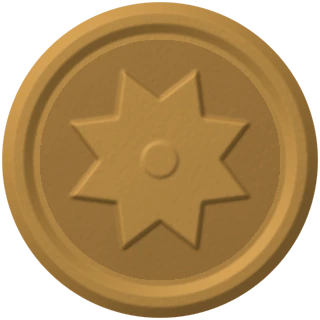
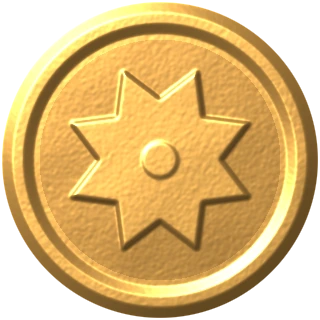
戦績: ルール選択を独自UIのドロップダウンに / アルケルケ: 金駒の明るさを中間に
Claude-Session: https://claude.ai/code/session_01EiWRAYzNyyFMGgYmiTnvUY

diff --git a/shared/record.js b/shared/record.js
@@ -28,7 +28,7 @@ const TX = {
 };
 const ICON = '<svg viewBox="0 0 24 24"><path d="M8 21h8M12 17v4"/><path d="M7 4h10v5a5 5 0 0 1-10 0z"/><path d="M7 6H4a3 3 0 0 0 3 4M17 6h3a3 3 0 0 1-3 4"/></svg>';
 const esc = s => String(s == null ? '' : s).replace(/[&<>"]/g, c => ({ '&': '&amp;', '<': '&lt;', '>': '&gt;', '"': '&quot;' }[c]));
-let O = null, vtab = 'all', tab = 'all', ov = null, confirmOn = false;
+let O = null, vpOpen = false, vtab = 'all', tab = 'all', ov = null, confirmOn = false;
 const L = () => { const l = (O && O.lang && O.lang()) || 'ja'; return TX[l] ? l : 'en'; };
 const tx = (k, v) => { let x = TX[L()][k]; if (x === undefined) x = TX.en[k]; if (v) x = x.replace(/\{(\w+)\}/g, (_, y) => v[y] != null ? v[y] : ''); return x; };
 const KEY = () => 'atlas-rec-' + O.game;
@@ -58,10 +58,19 @@ const CSS = `
 .grc-tabs{display:flex;flex:none;gap:2px;margin:0 22px 4px;padding:3px;border-radius:12px;background:rgba(0,0,0,.25);border:1px solid var(--gb);width:max-content;max-width:calc(100% - 44px);overflow-x:auto;scrollbar-width:none}
 .grc-tabs button{font:inherit;font-size:13.5px;font-weight:600;padding:7px 16px;border-radius:9px;border:0;background:transparent;color:var(--gm);cursor:pointer;white-space:nowrap}
 .grc-tabs button.sel{background:var(--gc);color:var(--gx);box-shadow:inset 0 0 0 1px var(--gb),0 1px 3px rgba(0,0,0,.3)}
-.grc-vs{position:relative;flex:none;min-width:0;max-width:52%}
-.grc-vs select{appearance:none;-webkit-appearance:none;font:inherit;font-size:13.5px;font-weight:600;color:var(--gx);background:var(--gc);border:1px solid var(--gb);border-radius:10px;padding:8px 32px 8px 12px;max-width:100%;cursor:pointer;text-overflow:ellipsis}
-.grc-vs::after{content:"";position:absolute;right:12px;top:50%;width:7px;height:7px;border-right:2px solid var(--gm);border-bottom:2px solid var(--gm);transform:translateY(-70%) rotate(45deg);pointer-events:none}
-.grc-vs select option{background:var(--panel,#1d1712);color:var(--gx)}
+.grc-vs{position:relative;flex:none;min-width:0;max-width:56%}
+.grc-vb{display:flex;align-items:center;gap:10px;max-width:100%;font:inherit;font-size:13.5px;font-weight:600;color:var(--gx);background:var(--gc);border:1px solid var(--gb);border-radius:10px;padding:8px 12px;cursor:pointer}
+.grc-vb span{min-width:0;overflow:hidden;text-overflow:ellipsis;white-space:nowrap}
+.grc-vb i{flex:none;width:7px;height:7px;border-right:2px solid var(--gm);border-bottom:2px solid var(--gm);transform:translateY(-2px) rotate(45deg);transition:transform .15s}
+.grc-vs.open .grc-vb{border-color:color-mix(in srgb,var(--ga) 50%,transparent)}.grc-vs.open .grc-vb i{transform:translateY(2px) rotate(-135deg)}
+.grc-vp{position:absolute;right:0;top:calc(100% + 6px);z-index:5;min-width:220px;max-width:min(320px,80vw);max-height:min(360px,60vh);overflow-y:auto;padding:6px;border-radius:14px;
+  background:color-mix(in srgb,var(--panel,#1d1712) 94%,#fff 6%);border:1px solid var(--gb);box-shadow:0 18px 40px rgba(0,0,0,.5);display:flex;flex-direction:column;gap:2px;animation:grcVp .14s ease-out}
+@keyframes grcVp{from{opacity:0;transform:translateY(-4px)}to{opacity:1;transform:none}}
+.grc-vp button{display:flex;align-items:center;justify-content:space-between;gap:14px;font:inherit;font-size:14px;font-weight:600;color:var(--gx);background:transparent;border:0;border-radius:9px;padding:9px 12px;cursor:pointer;text-align:start}
+.grc-vp button:hover{background:var(--gc)}
+.grc-vp button small{color:var(--gm);font-size:12px;font-weight:500;white-space:nowrap}
+.grc-vp button.sel{background:color-mix(in srgb,var(--ga) 12%,transparent);color:var(--ga)}
+html[dir=rtl] .grc-vp,html[lang=ar] .grc-vp{right:auto;left:0}
 .grc-vt{display:flex;flex:none;gap:6px;margin:0 22px 10px;overflow-x:auto;scrollbar-width:none}
 .grc-vt button{font:inherit;font-size:13px;font-weight:600;padding:6px 13px;border-radius:999px;border:1px solid var(--gb);background:transparent;color:var(--gm);cursor:pointer;white-space:nowrap;flex:none}
 .grc-vt button.sel{color:var(--ga);border-color:color-mix(in srgb,var(--ga) 50%,transparent);background:color-mix(in srgb,var(--ga) 10%,transparent)}
@@ -170,7 +179,7 @@ function render() {
   if (tab !== 'all' && !modes.includes(tab)) tab = 'all';
   const list = tab === 'all' ? all : all.filter(g => g.mode === tab);
   const st = stats(list), sides = O.sides ? O.sides(L()) : null;
-  let h = `<div class="grc-hd"><span class="grc-ic">${ICON}</span><h2>${esc(tx('title'))}</h2>${vs.length > 1 ? `<label class="grc-vs"><select aria-label="${esc(tx('allV'))}">${['all'].concat(vs).map(k => `<option value="${esc(k)}"${k === vtab ? ' selected' : ''}>${esc(k === 'all' ? tx('allV') : vName(k, every))}　${k === 'all' ? every.length : every.filter(g => vOf(g) === k).length}</option>`).join('')}</select></label>` : ''}<button type="button" class="grc-x" data-act="close" aria-label="${esc(tx('close'))}">×</button></div>`;
+  let h = `<div class="grc-hd"><span class="grc-ic">${ICON}</span><h2>${esc(tx('title'))}</h2>${vs.length > 1 ? `<div class="grc-vs${vpOpen ? ' open' : ''}"><button type="button" class="grc-vb" data-act="vp" aria-haspopup="listbox" aria-expanded="${vpOpen}"><span>${esc(vtab === 'all' ? tx('allV') : vName(vtab, every))}</span><i></i></button>${vpOpen ? `<div class="grc-vp" role="listbox">${['all'].concat(vs).map(k => { const n = k === 'all' ? every.length : every.filter(g => vOf(g) === k).length; return `<button type="button" role="option" aria-selected="${k === vtab}" data-vt="${esc(k)}" class="${k === vtab ? 'sel' : ''}"><span>${esc(k === 'all' ? tx('allV') : vName(k, every))}</span><small>${esc(tx('games', { n }))}</small></button>`; }).join('')}</div>` : ''}</div>` : ''}<button type="button" class="grc-x" data-act="close" aria-label="${esc(tx('close'))}">×</button></div>`;
 
   if (modes.length) h += `<div class="grc-tabs" role="tablist">${['all'].concat(modes).map(m => `<button type="button" role="tab" data-tab="${m}" class="${m === tab ? 'sel' : ''}">${esc(tx(m))}</button>`).join('')}</div>`;
   h += '<div class="grc-bd">';
@@ -190,7 +199,7 @@ function render() {
   h += `</div><div class="grc-ft"><small>${esc(tx('note'))}</small>${every.length ? `<button type="button" class="grc-warn" data-act="reset">${esc(tx('reset'))}</button>` : ''}<button type="button" class="grc-go" data-act="close">${esc(tx('close'))}</button></div>`;
   ov.firstChild.innerHTML = h;
 }
-function open() { if (!ov) return; confirmOn = false; if (O.variant) { const v = O.variant(); const k = v == null ? null : typeof v === 'string' ? v : v.k; if (k != null && load().some(g => vOf(g) === k) && new Set(load().map(vOf)).size > 1) vtab = k; } render(); ov.classList.add('show'); }
+function open() { if (!ov) return; confirmOn = false; vpOpen = false; if (O.variant) { const v = O.variant(); const k = v == null ? null : typeof v === 'string' ? v : v.k; if (k != null && load().some(g => vOf(g) === k) && new Set(load().map(vOf)).size > 1) vtab = k; } render(); ov.classList.add('show'); }
 function close() { if (ov) ov.classList.remove('show'); }
 function init(o) {
   O = o;
@@ -199,15 +208,16 @@ function init(o) {
   ov.addEventListener('click', e => {
     if (e.target === ov) return close();
     const b = e.target.closest('button'); if (!b) return;
-    if (b.dataset.vt) { vtab = b.dataset.vt; render(); }
+    if (b.dataset.act === 'vp') { vpOpen = !vpOpen; render(); return; }
+    if (b.dataset.vt) { vtab = b.dataset.vt; vpOpen = false; render(); }
     else if (b.dataset.tab) { tab = b.dataset.tab; render(); }
     else if (b.dataset.act === 'close') close();
     else if (b.dataset.act === 'reset') { confirmOn = true; render(); ov.querySelector('.grc-bd').scrollTop = 0; }
     else if (b.dataset.cf === 'no') { confirmOn = false; render(); }
     else if (b.dataset.cf === 'yes') { store([]); confirmOn = false; render(); }
   });
-  ov.addEventListener('change', e => { if (e.target.closest('.grc-vs')) { vtab = e.target.value; render(); } });
-  document.addEventListener('keydown', e => { if (e.key === 'Escape' && ov.classList.contains('show')) close(); });
+  ov.addEventListener('pointerdown', e => { if (vpOpen && !e.target.closest('.grc-vs')) { vpOpen = false; render(); } }, true);
+  document.addEventListener('keydown', e => { if (e.key === 'Escape' && ov.classList.contains('show')) { if (vpOpen) { vpOpen = false; render(); } else close(); } });
   // PC (and every layout without the phones' tab bar): a menu button
   const menu = typeof o.menu === 'string' ? document.querySelector(o.menu) : o.menu;
   let mb = null;

diff --git a/alquerque/index.html b/alquerque/index.html
@@ -1227,10 +1227,10 @@ html[data-pcs=brass]{--w1:#fff0b8;--w2:#d9ad4a;--w4:#8a6420;--b1:#4a6cc4;--b2:#1
 html[data-pcs=felt]{--w1:#f6eedc;--w2:#e6dcc4;--w4:#a89a80;--b1:#3a5cae;--b2:#1e3a84;--b4:#0e1c48}
 html:is([data-pcs=brass],[data-pcs=felt]) :is(.pc,.rv)::before, html:is([data-pcs=brass],[data-pcs=felt]) :is(.pc,.rv)::after{display:none}
 /* rendered faces (tools/gen_pieces.py): brass coin / lapis in a gold bezel; glazed ceramic (ivory painted cobalt / cobalt painted white) */
-html[data-pcs=brass] :is(.pc,.rv).p1{background:url(img/pc-brass-1.webp?v=3) 50% 50% / 100% 100% no-repeat}
-html[data-pcs=brass] :is(.pc,.rv).p2{background:url(img/pc-brass-2.webp?v=3) 50% 50% / 100% 100% no-repeat}
-html[data-pcs=felt] :is(.pc,.rv).p1{background:url(img/pc-felt-1.webp?v=3) 50% 50% / 100% 100% no-repeat}
-html[data-pcs=felt] :is(.pc,.rv).p2{background:url(img/pc-felt-2.webp?v=3) 50% 50% / 100% 100% no-repeat}
+html[data-pcs=brass] :is(.pc,.rv).p1{background:url(img/pc-brass-1.webp?v=4) 50% 50% / 100% 100% no-repeat}
+html[data-pcs=brass] :is(.pc,.rv).p2{background:url(img/pc-brass-2.webp?v=4) 50% 50% / 100% 100% no-repeat}
+html[data-pcs=felt] :is(.pc,.rv).p1{background:url(img/pc-felt-1.webp?v=4) 50% 50% / 100% 100% no-repeat}
+html[data-pcs=felt] :is(.pc,.rv).p2{background:url(img/pc-felt-2.webp?v=4) 50% 50% / 100% 100% no-repeat}
 html[data-pcs=brass] .pc.p1{box-shadow:0 calc(var(--cell) * .035) 0 #6a4614,0 calc(var(--cell) * .05) 0 #3e280a,0 calc(var(--cell) * .1) calc(var(--cell) * .1) rgba(0,0,0,.55)}
 html[data-pcs=brass] .pc.p2{box-shadow:0 calc(var(--cell) * .035) 0 #8a6420,0 calc(var(--cell) * .05) 0 #4a3010,0 calc(var(--cell) * .1) calc(var(--cell) * .1) rgba(0,0,0,.55)}
 html[data-pcs=felt] .pc.p1{box-shadow:0 calc(var(--cell) * .04) 0 #a0846a,0 calc(var(--cell) * .055) 0 #6a4a34,0 calc(var(--cell) * .1) calc(var(--cell) * .1) rgba(0,0,0,.5)}
@@ -1617,7 +1617,7 @@ window.OL_VARIANTS = ['alq']; window.OL_DB_PREFIX = 'alq/';
     };
     fit(); addEventListener('resize', fit);
     try { history.replaceState(null, '', location.pathname); } catch (e) {}   // (the iframe took the room / record links along)
-  } else document.write('<script src="../fanorona/i18n.js?v=fb3"><\/script><script src="i18n-alq.js?v=1x"><\/script><script src="../fanorona/i18n-online.js?v=stale1"><\/script><script src="../shared/pzbook.js?v=4"><\/script><script src="../shared/placement.js?v=1"><\/script><script src="../shared/rulesoffer.js?v=9"><\/script><script src="../shared/headerbar.js?v=29"><\/script><script src="../shared/flipbtn.js?v=1"><\/script><script src="../shared/cardbar.js?v=5"><\/script><script src="../shared/watchpause.js?v=2"><\/script><script src="../shared/tick.js?v=1"><\/script><script src="../shared/ruletour.js?v=28"><\/script><script src="../fanorona/engine.js?v=fb2"><\/script><script src="firebase-config.js?v=1"><\/script><script src="../shared/onlinesec.js?v=2"><\/script><script src="../fanorona/online.js?v=fb2"><\/script><script src="../shared/resign.js?v=1"><\/script><script src="../fanorona/rvbox.js?v=fb2"><\/script><script src="../shared/coachkit.js?v=14"><\/script><script src="../shared/record.js?v=7"><\/script><script src="../shared/export.js?v=6"><\/script><script src="../fanorona/app.js?v=fb5"><\/script><script src="../fanorona/online-ui.js?v=fb2"><\/script><script src="../fanorona/landtabs.js?v=fb2"><\/script><script src="../shared/pickdrop.js?v=6"><\/script><script src="../shared/ngtabs.js?v=15"><\/script><script src="../shared/resumeng.js?v=1"><\/script>');
+  } else document.write('<script src="../fanorona/i18n.js?v=fb3"><\/script><script src="i18n-alq.js?v=1x"><\/script><script src="../fanorona/i18n-online.js?v=stale1"><\/script><script src="../shared/pzbook.js?v=4"><\/script><script src="../shared/placement.js?v=1"><\/script><script src="../shared/rulesoffer.js?v=9"><\/script><script src="../shared/headerbar.js?v=29"><\/script><script src="../shared/flipbtn.js?v=1"><\/script><script src="../shared/cardbar.js?v=5"><\/script><script src="../shared/watchpause.js?v=2"><\/script><script src="../shared/tick.js?v=1"><\/script><script src="../shared/ruletour.js?v=28"><\/script><script src="../fanorona/engine.js?v=fb2"><\/script><script src="firebase-config.js?v=1"><\/script><script src="../shared/onlinesec.js?v=2"><\/script><script src="../fanorona/online.js?v=fb2"><\/script><script src="../shared/resign.js?v=1"><\/script><script src="../fanorona/rvbox.js?v=fb2"><\/script><script src="../shared/coachkit.js?v=14"><\/script><script src="../shared/record.js?v=8"><\/script><script src="../shared/export.js?v=6"><\/script><script src="../fanorona/app.js?v=fb5"><\/script><script src="../fanorona/online-ui.js?v=fb2"><\/script><script src="../fanorona/landtabs.js?v=fb2"><\/script><script src="../shared/pickdrop.js?v=6"><\/script><script src="../shared/ngtabs.js?v=15"><\/script><script src="../shared/resumeng.js?v=1"><\/script>');
 })();
 </script>
 <!-- World Board Game Atlas: shared account sync -->

diff --git a/fanorona/index.html b/fanorona/index.html
@@ -1577,7 +1577,7 @@ body.hb-on .hb .controls.hb-menu{display:flex!important}
     };
     fit(); addEventListener('resize', fit);
     try { history.replaceState(null, '', location.pathname); } catch (e) {}   // (the iframe took the room / record links along)
-  } else document.write('<script src="i18n.js?v=fb3"><\/script><script src="i18n-online.js?v=stale1"><\/script><script src="../shared/pzbook.js?v=4"><\/script><script src="../shared/placement.js?v=1"><\/script><script src="../shared/rulesoffer.js?v=9"><\/script><script src="../shared/headerbar.js?v=29"><\/script><script src="../shared/flipbtn.js?v=1"><\/script><script src="../shared/cardbar.js?v=5"><\/script><script src="../shared/watchpause.js?v=2"><\/script><script src="../shared/tick.js?v=1"><\/script><script src="../shared/ruletour.js?v=28"><\/script><script src="engine.js?v=fb2"><\/script><script src="firebase-config.js?v=fa2"><\/script><script src="../shared/onlinesec.js?v=2"><\/script><script src="online.js?v=fb2"><\/script><script src="../shared/resign.js?v=1"><\/script><script src="rvbox.js?v=fb2"><\/script><script src="../shared/coachkit.js?v=14"><\/script><script src="../shared/record.js?v=7"><\/script><script src="coach.js?v=fb1"><\/script><script src="coach-i18n.js?v=fb2"><\/script><script src="../shared/export.js?v=6"><\/script><script src="app.js?v=fb5"><\/script><script src="online-ui.js?v=fb2"><\/script><script src="landtabs.js?v=fb2"><\/script><script src="../shared/pickdrop.js?v=6"><\/script><script src="../shared/ngtabs.js?v=15"><\/script><script src="../shared/resumeng.js?v=1"><\/script>');
+  } else document.write('<script src="i18n.js?v=fb3"><\/script><script src="i18n-online.js?v=stale1"><\/script><script src="../shared/pzbook.js?v=4"><\/script><script src="../shared/placement.js?v=1"><\/script><script src="../shared/rulesoffer.js?v=9"><\/script><script src="../shared/headerbar.js?v=29"><\/script><script src="../shared/flipbtn.js?v=1"><\/script><script src="../shared/cardbar.js?v=5"><\/script><script src="../shared/watchpause.js?v=2"><\/script><script src="../shared/tick.js?v=1"><\/script><script src="../shared/ruletour.js?v=28"><\/script><script src="engine.js?v=fb2"><\/script><script src="firebase-config.js?v=fa2"><\/script><script src="../shared/onlinesec.js?v=2"><\/script><script src="online.js?v=fb2"><\/script><script src="../shared/resign.js?v=1"><\/script><script src="rvbox.js?v=fb2"><\/script><script src="../shared/coachkit.js?v=14"><\/script><script src="../shared/record.js?v=8"><\/script><script src="coach.js?v=fb1"><\/script><script src="coach-i18n.js?v=fb2"><\/script><script src="../shared/export.js?v=6"><\/script><script src="app.js?v=fb5"><\/script><script src="online-ui.js?v=fb2"><\/script><script src="landtabs.js?v=fb2"><\/script><script src="../shared/pickdrop.js?v=6"><\/script><script src="../shared/ngtabs.js?v=15"><\/script><script src="../shared/resumeng.js?v=1"><\/script>');
 })();
 </script>
 <!-- World Board Game Atlas: shared account sync -->

diff --git a/mancala/index.html b/mancala/index.html
@@ -1481,7 +1481,7 @@ html[data-sk=ocean] .seed{box-shadow:0 calc(var(--u) * .025) calc(var(--u) * .04
                           : 'position:fixed;left:0;top:0;width:' + W + 'px;height:' + H + 'px;border:0;display:block';
     };
     fit(); addEventListener('resize', fit);
-  } else document.write('<script src="../shared/resign.js?v=1"><\/script><script src="../shared/rulesoffer.js?v=9"><\/script><script src="../shared/headerbar.js?v=29"><\/script><script src="../shared/flipbtn.js?v=1"><\/script><script src="../shared/cardbar.js?v=5"><\/script><script src="../shared/watchpause.js?v=2"><\/script><script src="../shared/ruletour.js?v=28"><\/script><script src="../shared/pzbook.js?v=4"><\/script><script src="rvcoach.js?v=20261021b"><\/script><script src="../shared/coachkit.js?v=14"><\/script><script src="../shared/record.js?v=7"><\/script><script src="coach.js?v=6"><\/script><script src="coach-i18n.js?v=2"><\/script><script src="../shared/tick.js?v=1"><\/script><script src="firebase-config.js?v=ac2"><\/script><script src="../shared/onlinesec.js?v=2"><\/script><script src="online.js?v=stale2"><\/script><script src="../shared/export.js?v=6"><\/script><script src="app.js?v=20261101rv"><\/script><script src="online-ui.js?v=20261030ck1"><\/script><script src="landtabs.js?v=9"><\/script>');
+  } else document.write('<script src="../shared/resign.js?v=1"><\/script><script src="../shared/rulesoffer.js?v=9"><\/script><script src="../shared/headerbar.js?v=29"><\/script><script src="../shared/flipbtn.js?v=1"><\/script><script src="../shared/cardbar.js?v=5"><\/script><script src="../shared/watchpause.js?v=2"><\/script><script src="../shared/ruletour.js?v=28"><\/script><script src="../shared/pzbook.js?v=4"><\/script><script src="rvcoach.js?v=20261021b"><\/script><script src="../shared/coachkit.js?v=14"><\/script><script src="../shared/record.js?v=8"><\/script><script src="coach.js?v=6"><\/script><script src="coach-i18n.js?v=2"><\/script><script src="../shared/tick.js?v=1"><\/script><script src="firebase-config.js?v=ac2"><\/script><script src="../shared/onlinesec.js?v=2"><\/script><script src="online.js?v=stale2"><\/script><script src="../shared/export.js?v=6"><\/script><script src="app.js?v=20261101rv"><\/script><script src="online-ui.js?v=20261030ck1"><\/script><script src="landtabs.js?v=9"><\/script>');
 })();
 </script>
 <!-- World Board Game Atlas portal skin: mancala/?skin=atlas — 3D piano-black lacquer board, guide speech bubbles, portal look (all features kept) -->

diff --git a/xiangqi/index.html b/xiangqi/index.html
@@ -1236,7 +1236,7 @@ html[data-pcs=lacquer]{--pf1:#5b4a40;--pf2:#2d241f;--pf3:#140f0c;--pfe:#c9a961;-
 <script src="../shared/resign.js?v=1"></script>
 <script src="rvbox.js?v=20261028fsa"></script>
 <script src="../shared/coachkit.js?v=14"></script>
-<script src="../shared/record.js?v=7"></script>
+<script src="../shared/record.js?v=8"></script>
 <script src="../shared/export.js?v=6"></script>
 <script src="coach.js?v=5"></script>
 <script src="coach-i18n.js?v=3"></script>

diff --git a/dots/index.html b/dots/index.html
@@ -1157,7 +1157,7 @@ html[lang=ar] .op-info{border-left:0;border-right:3px solid var(--brass);border-
 <script src="../shared/onlinesec.js?v=2"></script>
 <script src="online.js?v=stale2"></script>
 <script src="../shared/coachkit.js?v=14"></script>
-<script src="../shared/record.js?v=7"></script>
+<script src="../shared/record.js?v=8"></script>
 <script src="coach.js?v=4"></script>
 <script src="../shared/export.js?v=6"></script>
 <script src="coach-i18n.js?v=2"></script>

diff --git a/morris/index.html b/morris/index.html
@@ -1328,7 +1328,7 @@ body.in-lesson #coachCard,body.in-puzzle #coachCard,body.in-online #coachCard,bo
 <script src="i18n_more.js?v=20261028sk"></script>
 <script src="i18n_coach.js?v=4"></script>
 <script src="../shared/coachkit.js?v=14"></script>
-<script src="../shared/record.js?v=7"></script>
+<script src="../shared/record.js?v=8"></script>
 <script src="coach.js?v=5"></script>
 <script src="coach-i18n.js?v=3"></script>
 <script src="../shared/export.js?v=6"></script>

diff --git a/gomoku/index.html b/gomoku/index.html
@@ -1423,7 +1423,7 @@ body.skin-ink .st.b{background:radial-gradient(circle at 34% 28%,#8a8f98 0%,#3c4
 <script src="../shared/resign.js?v=1"></script>
 <script src="rvbox.js?v=2a"></script>
 <script src="../shared/coachkit.js?v=14"></script>
-<script src="../shared/record.js?v=7"></script>
+<script src="../shared/record.js?v=8"></script>
 <script src="coach.js?v=6"></script>
 <script src="coach-i18n.js?v=3"></script>
 <script src="../shared/export.js?v=6"></script>

diff --git a/tafl/index.html b/tafl/index.html
@@ -1251,7 +1251,7 @@ body.in-lesson #coachCard,body.in-puzzle #coachCard,body.in-online #coachCard,bo
 <script src="../shared/resign.js?v=1"></script>
 <script src="rvbox.js?v=2a"></script>
 <script src="../shared/coachkit.js?v=14"></script>
-<script src="../shared/record.js?v=7"></script>
+<script src="../shared/record.js?v=8"></script>
 <script src="coach.js?v=4"></script>
 <script src="coach-i18n.js?v=2"></script>
 <script src="../shared/export.js?v=6"></script>

diff --git a/hex/index.html b/hex/index.html
@@ -1168,7 +1168,7 @@ html:not(.pc2) body:not(.in-lesson):not(.in-puzzle):not(.in-online):not(.in-edit
 <script src="../shared/resign.js?v=1"></script>
 <script src="rbox.js?v=3"></script>
 <script src="../shared/coachkit.js?v=14"></script>
-<script src="../shared/record.js?v=7"></script>
+<script src="../shared/record.js?v=8"></script>
 <script src="coach.js?v=6"></script>
 <script src="coach-i18n.js?v=3"></script>
 <script src="../shared/export.js?v=6"></script>

diff --git a/chess/index.html b/chess/index.html
@@ -1508,7 +1508,7 @@ body.in-online .coach,body.in-online #btnMistakes{display:none!important}
 <script src="rvbox.js?v=20261028fsa"></script>
 <script src="rvtip.js?v=1"></script>
 <script src="../shared/coachkit.js?v=14"></script>
-<script src="../shared/record.js?v=7"></script>
+<script src="../shared/record.js?v=8"></script>
 <script src="../shared/export.js?v=6"></script>
 <script src="coach.js?v=4"></script>
 <script src="coach-i18n.js?v=2"></script>

diff --git a/go/index.html b/go/index.html
@@ -951,7 +951,7 @@ html.rb-study #frame{outline:3px solid var(--accent);outline-offset:3px}
 <script src="../shared/export.js?v=6"></script>
 <script src="app.js?v=22rx3"></script>
 <script src="../shared/coachkit.js?v=14"></script>
-<script src="../shared/record.js?v=7"></script>
+<script src="../shared/record.js?v=8"></script>
 <script src="coach.js?v=5"></script>
 <script src="coach-i18n.js?v=3"></script>
 <script src="learn.js?v=20261101rv"></script>
